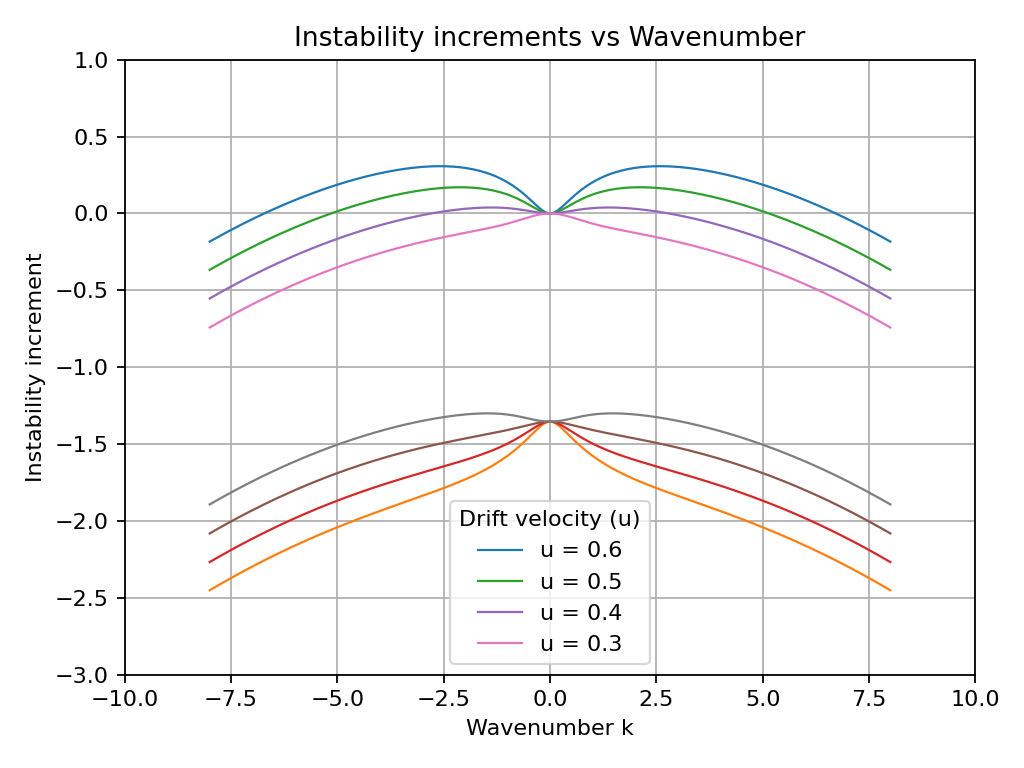
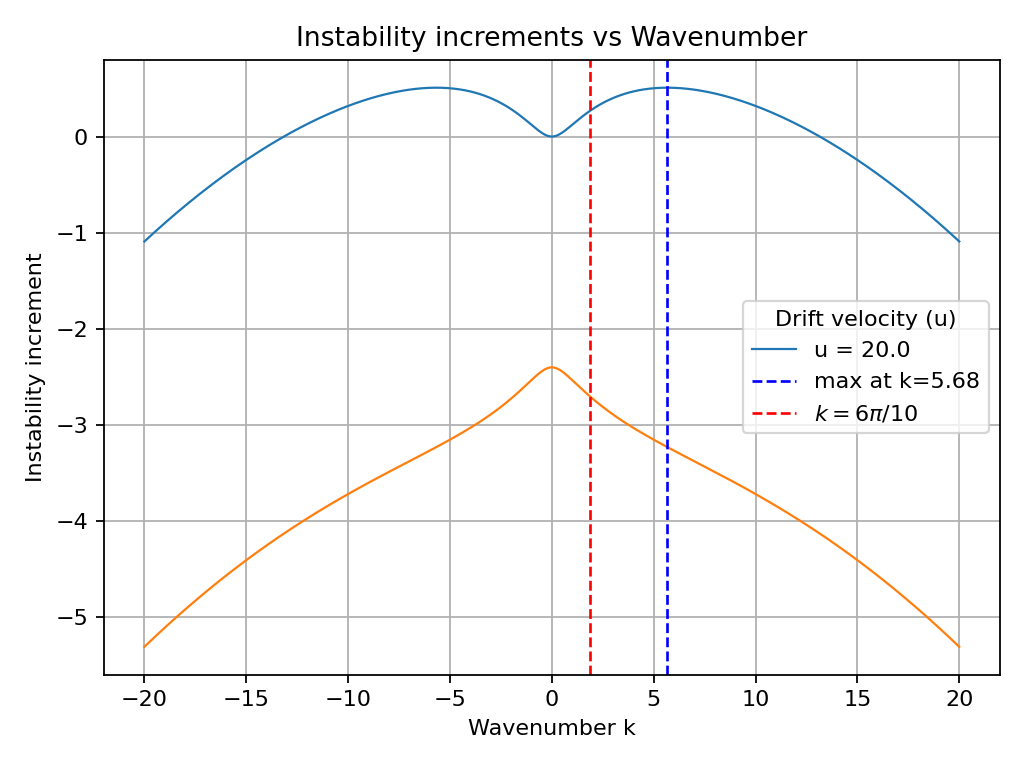
Tuned linear instability simulation to fit non-injection input parameters

diff --git a/linear instability increment/linear_instability_increment.py b/linear instability increment/linear_instability_increment.py
@@ -1,19 +1,19 @@
 import numpy as np
 import matplotlib.pyplot as plt
 
-U0 = 0.5
-eta_p = 0.01
-eta_n = 0.01
-n = 1
-w = 0.5
-gamma0 = 10
-N = 200
-kmin = -8
-kmax = 8
+U0 = 1.0
+eta_p = 5e-3
+eta_n = 5e-3
+n = 0.2
+w = 5.0
+gamma0 = 2.50
+N = 512
+kmin = -20
+kmax = 20
 Lambda = -(1 / w + 1 / n) * np.exp(-n / w)
 fig, ax = plt.subplots()
 
-u_values = [0.6, 0.5, 0.4, 0.3]
+u_values = [20.0]
 
 for u in u_values:
     k_out = np.linspace(kmin, kmax, N)
@@ -38,12 +38,30 @@ for u in u_values:
     ax.plot(k_out, np.imag(omega1), label=f'u = {u}', linewidth=1.0)
     ax.plot(k_out, np.imag(omega2), linewidth=1.0)
 
+
+mask = k_out >= 0
+k_right = k_out[mask]
+im1_right = np.imag(omega1)[mask]
+k_max_right = k_right[np.argmax(im1_right)]
+ax.axvline(k_max_right, color="blue", linestyle="--", linewidth=1.2,
+           label=f"max at k={k_max_right:.2f}")
+
+L = 10.0
+k_line = 6 * np.pi / L
+ax.axvline(k_line, color="red", linestyle="--", linewidth=1.2, label=f"$k = 6\\pi/{L:.0f}$")
+
+# k_line = 20 * np.pi / L
+# ax.axvline(k_line, color="purple", linestyle="--", linewidth=1.2, label=f"$k = 6\\pi/{L:.0f}$")
+
+# k_line = 12 * np.pi / L
+# ax.axvline(k_line, color="green", linestyle="--", linewidth=1.2, label=f"$k = 6\\pi/{L:.0f}$")
+
 ax.grid(True)
 ax.set_xlabel('Wavenumber k')
 ax.set_ylabel('Instability increment')
-ax.set_ylim([-3, 1])
-ax.set_xlim([-10, 10])
+# ax.set_ylim([-5, 5])
+# ax.set_xlim([-20, 20])
 ax.legend(title='Drift velocity (u)')
 ax.set_title('Instability increments vs Wavenumber')
 
-plt.tight_layout(); plt.savefig(f"linear_instability_increment.png", dpi=160); plt.close()
+plt.tight_layout(); plt.savefig(f"linear_instability_increment.png", dpi=160); plt.show()#plt.close()
